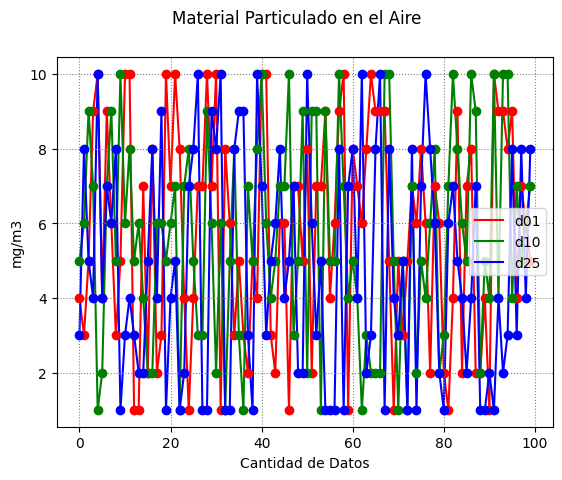
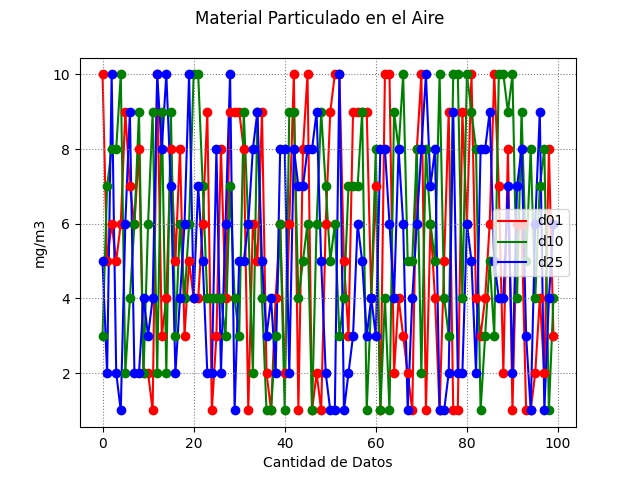
fase 3

diff --git a/Ejercicio2 y 3/Cliente2.py b/Ejercicio2 y 3/Cliente2.py
@@ -15,23 +15,24 @@ for k in range(len(data)):
     d10.append(data[k]["N2"][0]["d10"])
     d25.append(data[k]["N2"][0]["d25"]) 
 
+tamano = len(d10)
+
+plt.plot(d01,color = 'red', label = 'd01', zorder = 1)
+plt.scatter(range(tamano),d01, color = 'red', zorder = 2)
 
 
-plt.plot(d01[:100],color = 'red', label = 'd01', zorder = 1)
-plt.scatter(range(100),d01[:100], color = 'red', zorder = 2)
+plt.plot(d10,color = 'green', label = 'd10', zorder = 1)
+plt.scatter(range(tamano),d10, color = 'green', zorder = 2)
 
-
-plt.plot(d10[:100],color = 'green', label = 'd10', zorder = 1)
-plt.scatter(range(100),d10[:100], color = 'green', zorder = 2)
-
-plt.plot(d25[:100],color = 'blue', label = 'd25', zorder = 1)
-plt.scatter(range(100),d25[:100], color = 'blue', zorder = 2)
+plt.plot(d25,color = 'blue', label = 'd25', zorder = 1)
+plt.scatter(range(tamano),d25, color = 'blue', zorder = 2)
 plt.legend()
 plt.grid(color = 'gray', linestyle = 'dotted')
 
 plt.xlabel("Cantidad de Datos")
 plt.ylabel("mg/m3")
 plt.suptitle("Material Particulado en el Aire", fontsize=12)
-plt.savefig('grafico.png', bbox_inches='tight')  # Elimina márgenes alrededor del gráfico
+plt.savefig('grafico.png') 
 
 SendGrapichs.enviar()
+plt.show()

diff --git a/Ejercicio2 y 3/Server.py b/Ejercicio2 y 3/Server.py
@@ -44,10 +44,20 @@ def GetToDb():
         # Devolver los datos recuperados
         return rows
 
+
     except sqlite3.Error as e:
         print(f"Error al obtener de la base de datos: {e}")
         raise
-
+def delete():
+    try:
+        connection = sqlite3.connect("database/contaminacion.db")
+        cursor = connection.cursor()
+        cursor.execute("delete from T_Conta")
+        connection.commit()
+        connection.close()
+    except sqlite3.Error as e:
+        print(e)
+        raise
 # Ruta para subir datos en formato JSON
 @app.route('/upload_json', methods=['POST'])
 def Insert():
@@ -95,6 +105,11 @@ def get():
     except Exception as e:
         print(f"Error al obtener los datos: {e}")
         return jsonify({"message": "Error interno del servidor"}), 500
+
+@app.route('/delete_json', methods=['POST'])
+def vaciar():
+    delete()
+    return jsonify("Se ha vaciado la base de datos")
 
 if __name__ == '__main__':
     app.run(debug=True)

diff --git a/Ejercicio2 y 3/Cliente.py b/Ejercicio2 y 3/Cliente.py
@@ -2,6 +2,7 @@ import random as ra
 import requests
 import time as tl
 import json  # Para convertir a JSON
+import vaciar
 
 url = "http://127.0.0.1:5000/upload_json"
 
@@ -33,13 +34,16 @@ def generate():
     return dMP_data
 
 if __name__ == '__main__':
+    vaciar.vacio
     for k in range(100):
         data = generate()  # Genera los datos aleatorios
         data_json = json.dumps(data)  # Convierte los datos a formato JSON
+
+        
         
         # Enviar la solicitud POST con los datos JSON y la cabecera adecuada
         response = requests.post(url, data=data_json, headers={'Content-Type': 'application/json'})
-        
+        tl.sleep(1)
         # Verifica si la solicitud fue exitosa
         if response.status_code == 200:
             print(f"Solicitud {k+1} enviada correctamente.")

diff --git a/Ejercicio2 y 3/chatid.py b/Ejercicio2 y 3/chatid.py
@@ -10,8 +10,8 @@ bot = telepot.Bot(TOKEN)
 def get_updates():
     try:
         updates = bot.getUpdates()
-        time.sleep(5)
-        return updates[0]["message"]["from"]["id"]
+        time.sleep(2)
+        return updates[len(updates)-1]["message"]["from"]["id"]
     except Exception as e:
         print(f"Error al obtener actualizaciones: {e}")
 

diff --git a/Ejercicio2 y 3/vaciar.py b/Ejercicio2 y 3/vaciar.py
@@ -1,0 +1,5 @@
+import requests
+
+
+url = url = "http://127.0.0.1:5000/delete_json"
+vacio = requests.post(url)
